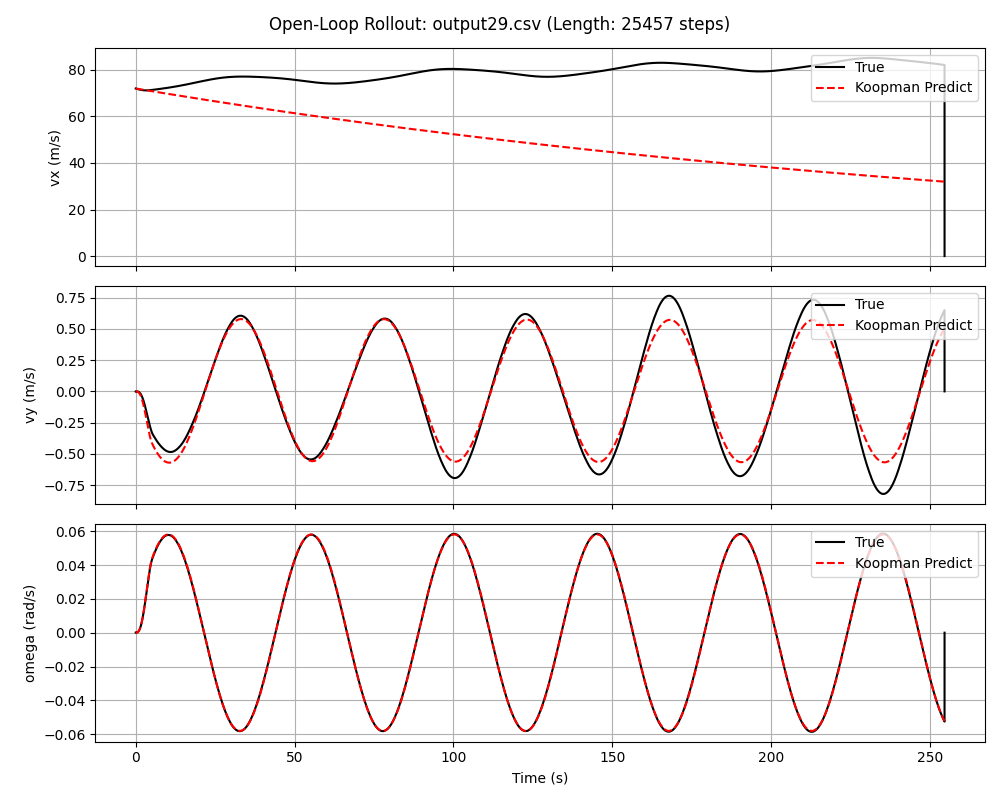
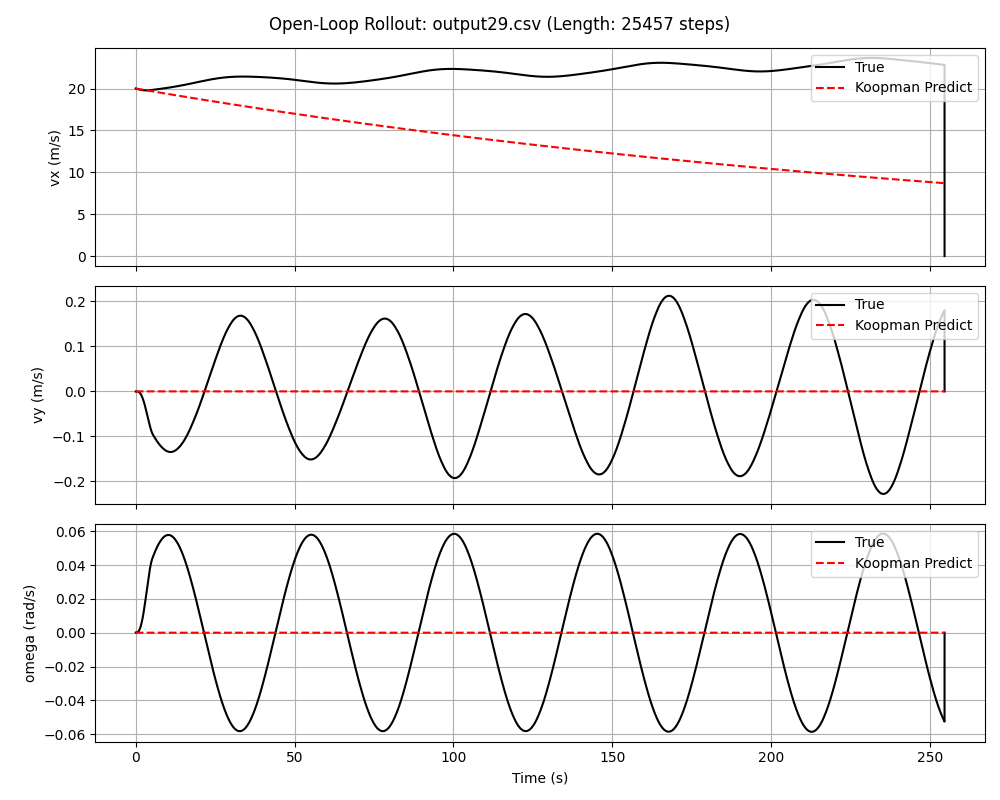
Convert vx and vy to m/s, refine sparsity sweep to prefer stable open-loop models

diff --git a/data_loader.py b/data_loader.py
@@ -64,6 +64,18 @@ def load_and_preprocess_data(data_dir, split_ratio=(60, 5, 5), seed=42):
             if units[idx_delta] == 'deg':
                 delta = np.deg2rad(delta)
                 
+            vx = df[idx_vx].values
+            if units[idx_vx] == 'km/h':
+                vx = vx / 3.6
+                
+            vy = df[idx_vy].values
+            if units[idx_vy] == 'km/h':
+                vy = vy / 3.6
+                
+            omega = df[idx_omega].values
+            if units[idx_omega] == 'deg/s':
+                omega = np.deg2rad(omega)
+                
             # Check dt
             nominal_dt = np.median(np.diff(time))
             if np.isnan(nominal_dt) or nominal_dt <= 0:
@@ -76,15 +88,22 @@ def load_and_preprocess_data(data_dir, split_ratio=(60, 5, 5), seed=42):
             
             if num_invalid > 0:
                 print(f"[{desc}] File {os.path.basename(file)}: dropped {num_invalid} rows with dt <= 0")
-                df = df[~invalid_mask]
                 time = time[~invalid_mask]
                 delta = delta[~invalid_mask]
+                vx = vx[~invalid_mask]
+                vy = vy[~invalid_mask]
+                omega = omega[~invalid_mask]
+                # Fx we extract later, so let's extract it now
+                
+            Fx = df[idx_Fx].values
+            if num_invalid > 0:
+                Fx = Fx[~invalid_mask]
                 
             # States and Controls
             # x = [vx, vy, omega]
             # u = [Fx, delta]
-            x_raw = np.column_stack((df[idx_vx].values, df[idx_vy].values, df[idx_omega].values))
-            u_raw = np.column_stack((df[idx_Fx].values, delta))
+            x_raw = np.column_stack((vx, vy, omega))
+            u_raw = np.column_stack((Fx, delta))
             
             trajectories.append({
                 'file': file,

diff --git a/koopman_fit.py b/koopman_fit.py
@@ -39,9 +39,20 @@ def fit_koopman_model(Z_train, U_train, Z_prime_train, Z_val, U_val, Z_prime_val
         
         print(f"  lambda = {lam:.3f} | Val RMSE: {val_rmse:.6f} | Active terms: {active_terms}")
         
-        if val_rmse < best_error:
-            best_error = val_rmse
-            best_lam = lam
+    # Find the best RMSE
+    best_rmse = min([r['val_rmse'] for r in results])
+    
+    # Pick the sparsest model (highest lambda) that is within 5% of the best RMSE
+    # This prevents selecting overly complex models that blow up in open-loop rollout
+    threshold_rmse = best_rmse * 1.05
+    
+    # Filter candidates
+    candidates = [r for r in results if r['val_rmse'] <= threshold_rmse]
+    
+    # Pick the one with the fewest active terms
+    best_candidate = min(candidates, key=lambda x: x['active_terms'])
+    best_lam = best_candidate['lambda']
+    best_error = best_candidate['val_rmse']
             
     print(f"Selected lambda: {best_lam} with Val RMSE: {best_error:.6f}")
     
